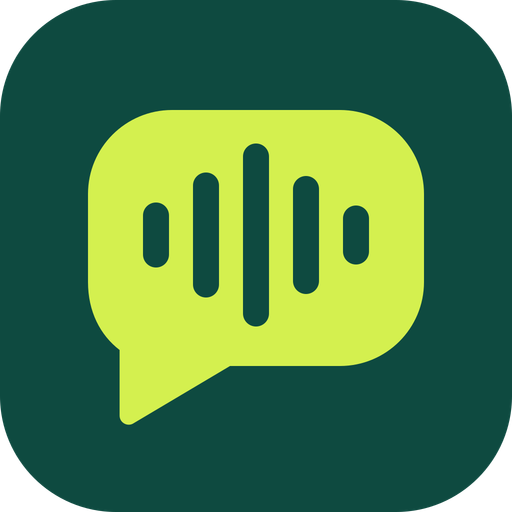
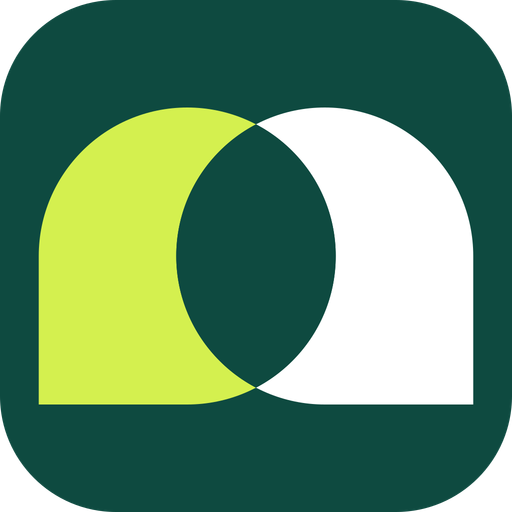
ovoza logosi qayta ishlandi: ikki pufakcha "oo", kesishuvi — tushunish
- Yangi belgi: ikki chat pufakchasi, kesishgan joyi laym rangida
- LogoMark, favicon, apple-icon.png, opengraph-image.png yangilandi
- public/logo.png va public/brand/ (PNG + SVG, oq variant, ilova ikonkasi)

diff --git a/src/components/brand/logo.tsx b/src/components/brand/logo.tsx
@@ -1,18 +1,26 @@
 import Link from "next/link";
 import { cn } from "@/lib/utils";
 
-const BUBBLE = "M344 220h336c92.8 0 168 75.2 168 168v176c0 92.8-75.2 168-168 168H460L268 846c-12 8.6-28.8 0-28.8-14.8V700c-39-30-63.2-77-63.2-136V388c0-92.8 75.2-168 168-168z";
-const BARS = [130, 250, 366, 236, 118];
+/**
+ * ovoza mark: two chat bubbles that read as "oo" — a question and an answer.
+ * Where they overlap (the lime lens) is understanding. Same geometry as public/brand/ovoza-mark.svg.
+ */
+const BLEFT = "M117 740V470A270 270 0 1 1 387 740Z";
+const BRIGHT = "M907 740H637A270 270 0 1 1 907 470Z";
 
-/** ovoza mark: a voice message — speech bubble with a waveform. Same geometry as public/brand/ovoza-mark.svg. */
 export function LogoMark({ className, tone = "dark" }: { className?: string; tone?: "dark" | "light" }) {
-  const tile = tone === "dark" ? "#0E4A40" : "#D4F04F";
-  const fg = tone === "dark" ? "#D4F04F" : "#0E4A40";
+  const id = tone === "dark" ? "lmd" : "lml";
+  const [a, b, lens] = tone === "dark" ? ["#0E4A40", "#1F7C64", "#D4F04F"] : ["#D4F04F", "#FFFFFF", null];
   return (
-    <svg viewBox="0 0 1024 1024" className={cn("size-9 shrink-0", className)} aria-hidden>
-      <rect width="1024" height="1024" rx="232" fill={tile} />
-      <path d={BUBBLE} fill={fg} />
-      {BARS.map((h, i) => <rect key={i} x={312 + i * 100 - 26} y={470 - h / 2} width="52" height={h} rx="26" fill={tile} />)}
+    <svg viewBox="77 160 870 620" className={cn("h-9 w-auto shrink-0", className)} aria-hidden>
+      <defs>
+        <clipPath id={`${id}c`}><path d={BRIGHT} /></clipPath>
+        <mask id={`${id}l`}><rect x="0" y="0" width="1024" height="1024" fill="#fff" /><path d={BRIGHT} fill="#000" /></mask>
+        <mask id={`${id}r`}><rect x="0" y="0" width="1024" height="1024" fill="#fff" /><path d={BLEFT} fill="#000" /></mask>
+      </defs>
+      <path d={BLEFT} fill={a} mask={`url(#${id}l)`} />
+      <path d={BRIGHT} fill={b} mask={`url(#${id}r)`} />
+      {lens ? <path d={BLEFT} fill={lens} clipPath={`url(#${id}c)`} /> : null}
     </svg>
   );
 }
